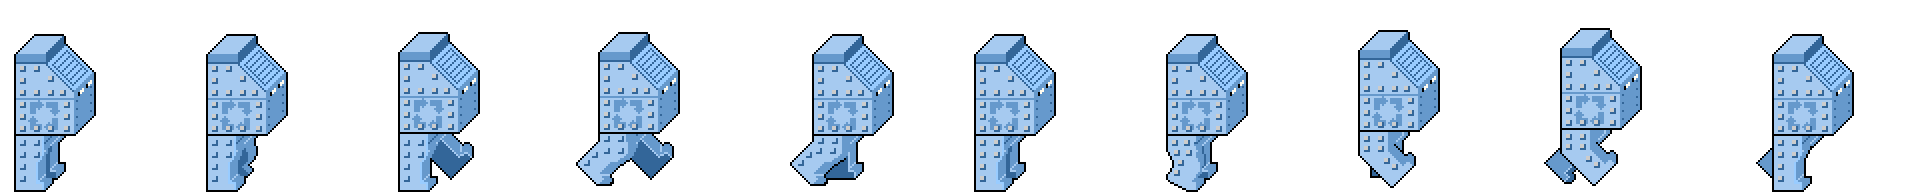
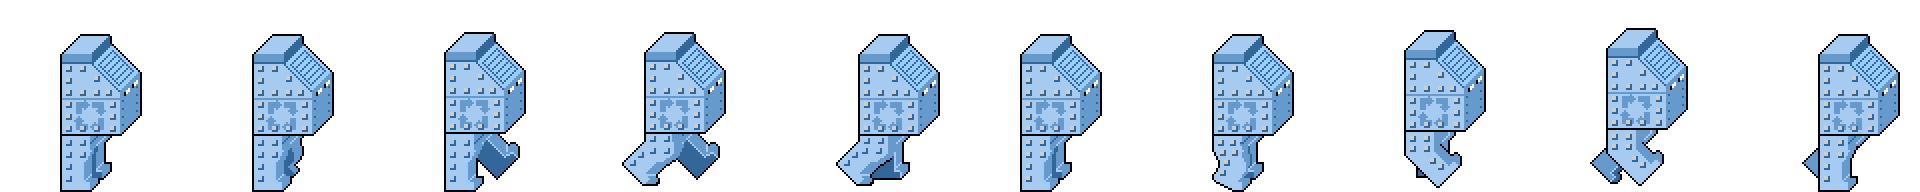
Removed sprite slicing for later alternative z-sorting.

diff --git a/src/game/gameobjects/character.ts b/src/game/gameobjects/character.ts
@@ -16,12 +16,7 @@ export interface CharacterParams extends GameObjectParams {
     isForward? : boolean;
     isGlide? : boolean;
     stateAnimations : number[];
-    animsMisc : AnimationInputParams[];
-}
-
-/** Animation parameters with a sliced option */
-interface AnimationInputParams extends AnimationParams {
-    isSliced? : boolean;
+    animsMisc : AnimationParams[];
 }
 
 /** Base character */
@@ -38,12 +33,12 @@ export default class Character extends GameObject {
     private isGlide: boolean;                       // If the character sprite matches the character's subposition
     private underBricks: Brick[] = [];              // Bricks under pressure, under this character
 
-    protected animations: Anim[][] = [[]];          // Animations, 2D array for character-states and then sub-states
+    protected animations: Anim[] = [];              // Animations, 2D array for character-states and then sub-states
     protected stateAnimations: number[];            // Array of which animation each state uses. Sometimes it's not 1:1.
     protected stateIndex: number = 0;               // Current state
 
     /** Getters */
-    protected get animationsCurr() : Anim[] {                               // The animations for the current state
+    protected get animationsCurr() : Anim {                               // The animations for the current state
         return this.animations[this.stateAnimations[this.stateIndex]]; 
     }
     public get isNormalMovment() : boolean { return this.stateIndex == 0 }  // If the current state is normal movment
@@ -66,46 +61,36 @@ export default class Character extends GameObject {
             []))];                                                      // There's only one animation.
 
         const mainZIndex = this.height * 100 - 1;                       // Z-index of main slices in the character sprite
-        
-        // Spawn 3 animations, the sprite is sliced vertically into 2x wide segments for proper z-indexing
-        for(let i = -1; i <= 1; i ++) {
-            
-            // Add segment to scene and this character
-            this.animationsCurr.push(this.parent.pushGO(new Anim({
-                    ...params,
-                    speed : this.isGlide ? 6 : params.speed, 
-                    isLoop : this.isGlide,                          // Loops are handled manually by non-gliders to prevent stuttering
-                    zModifier : i < 1 ? mainZIndex : 29,            // Z-modifier for different slices
-                    sliceIndex : i,                                 // This animation is sliced
-                    framesSize : GMULTX * 2,                        // 2x wide slices
-                    gposOffset : { x : -1, y : 0 }                  // Move back by 1. Animations are centered around this character
-                } as AnimationParams)) as Anim);
-        }
+
+        // Add segment to scene and this character
+        this.animations.push(new Anim({
+            ...params,
+            speed : this.isGlide ? 6 : params.speed, 
+            isLoop : this.isGlide,          // Loops are handled manually by non-gliders to prevent stuttering
+            zModifier : mainZIndex,         // Z-modifier for different slices
+            framesSize : GMULTX * 6,        // 2x wide slices
+            gposOffset : { x : -3, y : 0 }  // Move back by 1. Animations are centered around this character
+        } as AnimationParams));
 
         // Setup miscellaneous animations.
         params.animsMisc?.forEach(m => {
 
-            // Build a new animation, store it here and in the scene
-            var newIndex = this.animations.push([]) - 1;
-
-            // 3 slices if sliced, 1 otherwise
-            for(let i = -1; i <= (m.isSliced ? 1 : -1); i ++) {
-
-                this.animations[newIndex].push(new Anim({
-                    ...params,
-                    speed :      m.speed,
-                    images :     m.images,
-                    sliceIndex : m.isSliced ? i : null,
-                    framesSize : m.isSliced ? GMULTX * 2 : m.framesSize,
-                    gposOffset : m.gposOffset,
-                    zModifier :  m.isSliced ? (i < 1 ? (this.height * 100 + 1) : 29) : m.zModifier,
-                    frameCount : m.frameCount,
-                    animsCount : m.animsCount,
-                    isLoop :     m.isLoop
-                } as AnimationParams));
-            }
-            this.animations[newIndex].forEach(a => this.parent.pushGO(a));
+            this.animations.push(new Anim({
+                ...params,
+                ...m
+                // speed :      m.speed,
+                // images :     m.images,
+                // framesSize : m.framesSize,
+                // gposOffset : m.gposOffset,
+                // zModifier :  m.zModifier,
+                // frameCount : m.frameCount,
+                // animsCount : m.animsCount,
+                // isLoop :     m.isLoop
+            } as AnimationParams));
         });
+
+        //Add animations to scene
+        this.animations.forEach(a => this.parent.pushGO(a));
     }
 
     /** Initialize this character. Get brick handler & set the default state */
@@ -145,9 +130,7 @@ export default class Character extends GameObject {
         
         // Glide characters move gradually, continously set the animation to match its subposition
         if (this.isGlide) {
-            this.animationsCurr.forEach(a => {
-                a.spos = this.spos;
-            });
+            this.animationsCurr.spos = this.spos;
         }
     }
 
@@ -184,12 +167,12 @@ export default class Character extends GameObject {
     /** Reverse the direction of this character */
     protected reverse() {
 
-        this.move.x *= -1;                                                          // Reverse direction
-        this.animations[0].forEach(x => x.setImageIndex(this.animationSubindex));   // Establish sprites for new direction
+        this.move.x *= -1;                                          // Reverse direction
+        this.animations[0].setImageIndex(this.animationSubindex);   // Establish sprites for new direction
         
         // If gliding force-reset the sprite to match its current position
         if (this.isGlide) {
-            this.animationsCurr.forEach(a => a.reset(this.gpos));
+            this.animationsCurr.reset(this.gpos);
         }
     }
 
@@ -197,19 +180,19 @@ export default class Character extends GameObject {
     protected setStateIndex(index? : number) {
         
         this.stateIndex = index ?? this.stateIndex;
-        this.animations.forEach((sg, i) => sg.forEach(s => {
+        this.animations.forEach((s, i) => {
             s.isActive = i == this.stateAnimations[this.stateIndex];
             s.spos.setToZero(); // Reset subposition
             s.reset(this.gpos); // Make sure all sprites are in the character's position after set
-        }));
-        this.animationsCurr.forEach(x => x.setImageIndex(this.animationSubindex));
+        });
+        this.animationsCurr.setImageIndex(this.animationSubindex);
     }
 
     /** Deactivate this character */
     public deactivate() {
 
         this.isActive = false;
-        this.animations.forEach(sg => sg.forEach(s => s.isActive = false));
+        this.animations.forEach(s => s.isActive = false);
         this.underBricks.forEach(b => b.pressure -= 1);
         this.underBricks = [];
     }

diff --git a/src/game/gameobjects/characterbot.ts b/src/game/gameobjects/characterbot.ts
@@ -27,10 +27,10 @@ const characterBotOverride = Object.freeze({
     height: 4,      // Bot is this tall
     speed : 3,      // Bot moves fast
     images : [      // Bot has left & right animations
-        { name : "char_bot_left", offsetX : 36 },
-        { name : "char_bot_right", offsetX : 14},
-        { name : "char_bot_left_armor", offsetX : 36 },
-        { name : "char_bot_right_armor", offsetX : 14}],
+        { name : "char_bot_left" },
+        { name : "char_bot_right" },
+        { name : "char_bot_left_armor" },
+        { name : "char_bot_right_armor" }],
     frameCount : 10,
     animsCount : 2,
     stateAnimations : [1, 2, 3, 3, 4],
@@ -49,8 +49,8 @@ const characterBotOverride = Object.freeze({
         isLoop : false
     },{             // Bot up animation
         images : [  // Flying has left & right animations
-            { name : "char_bot_fly_left", offsetX : 36 },
-            { name : "char_bot_fly_right", offsetX : 14 }],
+            { name : "char_bot_fly_left" },
+            { name : "char_bot_fly_right" }],
         speed : 3,  // Bot moves fast
         gposOffset : { x : -1, y : 0},
         frameCount : 10,
@@ -121,7 +121,7 @@ export default class CharacterBot extends Character {
         // Update armor flash
         if (this.armorState == ArmorState.FLASH) {
             this.timerArm += dt;
-            this.animationsCurr.forEach(x => x.setImageIndex(this.animationSubindex));
+            this.animationsCurr.setImageIndex(this.animationSubindex);
 
             // Remove armor after a duration and reset timer
             if (this.timerArm > this.armorDelay) {
@@ -156,7 +156,7 @@ export default class CharacterBot extends Character {
         }
 
         // If the current animation has ended
-        if (this.timerSpc > this.animationsCurr[0].duration) {
+        if (this.timerSpc > this.animationsCurr.duration) {
 
             // Reset timer
             this.timerSpc = 0;
@@ -171,7 +171,7 @@ export default class CharacterBot extends Character {
 
                 // Vertical - Reset up/down animation
                 case BotState.FLYING :
-                    this.animationsCurr.forEach(a => a.reset());
+                    this.animationsCurr.reset();
                     break;
 
                 // Bounce - Do nothing
@@ -192,9 +192,18 @@ export default class CharacterBot extends Character {
         //Don't update if vertically blocked and moving upward
         if(!this.vertBlock) {
 
-            this.spos.y -= dt * this.vertSpeed * dir;               // Move subposition vertically based on speed
-            this.animationsCurr.forEach(a => a.spos = this.spos);   // Move animation to match
+            this.spos.y -= dt * this.vertSpeed * dir;   // Move subposition vertically based on speed
+            this.animationsCurr.spos = this.spos;       // Move animation to match
         }
+
+        //Update grid position
+        if (Math.abs(this.spos.y) > GMULTY) {
+            this.gpos.y += Math.sign(this.spos.y)
+            this.spos.y -= Math.sign(this.spos.y) * GMULTY;
+        }
+        this.handleBrickCollisionVertical();
+        this.animationsCurr.reset(this.gpos, false);
+        this.animationsCurr.spos = this.spos;
     }
 
     /** Move in a jumping arc */
@@ -256,14 +265,14 @@ export default class CharacterBot extends Character {
         }
 
         //Update position, travel in an arc based on the jump heights.
-        this.spos.x += this.move.x * this.horzSpeed * dt;       //Update horizontal position
-        this.spos.y = - GMULTY * (                              //Update vertical position
+        this.spos.x += this.move.x * this.horzSpeed * dt;   //Update horizontal position
+        this.spos.y = - GMULTY * (                          //Update vertical position
             this.jumpHeights[index] + 
             this.gpos.y - 
             this.jumpOrigin.y +
             Math.abs(this.spos.x / GMULTX) * (this.jumpHeights[index + 1] - this.jumpHeights[index]));
 
-        this.animationsCurr.forEach(a => a.spos = this.spos);  //Update animations to match current position
+        this.animationsCurr.spos = this.spos;               //Update animations to match current position
 
         //store sub-position converted to a grid position
         var move = {
@@ -280,10 +289,8 @@ export default class CharacterBot extends Character {
                 y : move.y * GMULTY
             });            
     
-            //Update animations to match
-            this.animationsCurr.forEach(a => {
-                a.gpos.add(move);
-            });
+            //Update animation to match
+            this.animationsCurr.gpos.add(move);
 
             this.brickHandler.isRecheck = true; //Recheck bricks after every shift
         }
@@ -413,10 +420,8 @@ export default class CharacterBot extends Character {
             if (this.vertMult > 0) {
 
                 this.spos.y = this.ceilSubOffset;   // Set sub-position for block
-                this.animationsCurr.forEach(a => {  // Adjust animations to match
-                    a.zModifierPub = 0;
-                    a.spos.y = this.ceilSubOffset;
-                });
+                this.animationsCurr.zModifierPub = 0;
+                this.animationsCurr.spos.y = this.ceilSubOffset;
             }
             // If going downwards, reset to walking
             else {

diff --git a/src/game/gameobjects/anim.ts b/src/game/gameobjects/anim.ts
@@ -1,5 +1,5 @@
 import GameObject, { GameObjectParams } from "engine/gameobjects/gameobject";
-import { floor, getZIndex, GMULTX, GMULTY, OPPOSITE_DIRS, zip } from "engine/utilities/math";
+import { floor, getZIndex, GMULTY, zip } from "engine/utilities/math";
 import Vect, { Point } from "engine/utilities/vect";
 
 /** Parameters for an offset image */
@@ -26,7 +26,6 @@ export interface AnimationParams extends GameObjectParams {
 
     frameCount : number;
     animsCount? : number;
-    sliceIndex? : number;
 }
 
 /** Animated image gameobject */
@@ -42,7 +41,6 @@ export default class Anim extends GameObject {
     private framesSize? : number;                   // The Horizontal/Vertical size of each frame
     private frameCount : number;                    // The Quantity of frames for this animation 
     private animsCount : number;                    // The number of animations per image
-    private sliceIndex? : number;                   // The index of this animation, if it's been sliced
 
     /** Set in init */
     private fullSize : Point = { x : 0, y : 0 };    // The full dimensions of this animation's images
@@ -57,7 +55,6 @@ export default class Anim extends GameObject {
 
     /** get */
     public get duration() : number { return 1 / this.speed; }
-    public get isBackSlice() : boolean { return (this.sliceIndex ?? 1) == 1; }
 
     /** Constructor */
     constructor(params : AnimationParams) {
@@ -72,7 +69,6 @@ export default class Anim extends GameObject {
         this.zModifier = (params.zModifier ?? 300) + (this.spos.y > 0 ? this.sposYFix : 0);
         this.frameCount = params.frameCount;
         this.animsCount = params.animsCount ?? 1;
-        this.sliceIndex = params.sliceIndex;
 
         // Store images with different 
         switch(params.images.length) {
@@ -190,7 +186,6 @@ export default class Anim extends GameObject {
 
         const size = this.framesSize ?? 0;                                  // Size (horizontal or vertical) of this frame
         const image = this.images[this.imageIndex];                         // Current image
-        const widthSlice = size * (this.sliceIndex ?? 0);                   // Slice width, or 0 if this animation isn't sliced
         const oppoSize = this.isVert ? this.fullSize.x : this.fullSize.y;   // Full width or height (the non-animated direction)
 
         ctx.drawImage(
@@ -198,15 +193,14 @@ export default class Anim extends GameObject {
             image,                    
 
             // Slice position & size 
-            widthSlice +                    // Move segment forward based on which slice this is.
             image.offsetX +                 // Move segment forward based on the X-offset of the current image  
             this.getAnimationOffset(false),
-            this.getAnimationOffset(true),  
-            this.isVert ? oppoSize : size,  
-            this.isVert ? size : oppoSize,    
+            this.getAnimationOffset(true),
+            this.isVert ? oppoSize : size,
+            this.isVert ? size : oppoSize,
 
             // Greater image position & size
-            widthSlice,                     // Move segment forward based on which slice this is. Unused(?) for vertical animations.
+            0,
             this.isVert ? 0 : GMULTY - this.fullSize.y,
             this.isVert ? oppoSize : size,  
             this.isVert ? size : oppoSize);

diff --git a/src/game/gameobjects/characterbin.ts b/src/game/gameobjects/characterbin.ts
@@ -4,9 +4,9 @@ import Character, { CharacterParams } from "./character";
 
 /** Specifications of a Bin character */
 const characterBinOverride = Object.freeze({
-    height: 2,                                      // Bins are this tall
-    speed : 0,                                      // Bins aren't animated
-    images : [{ name : "char_bin", offsetX : 0}],   // Bin image
+    height: 2,                                          // Bins are this tall
+    speed : 0,                                          // Bins aren't animated
+    images : [{ name : "char_bin", offsetX : -69 }],    // Bin image
     frameCount : 1,
     animsCount : 1
 });
